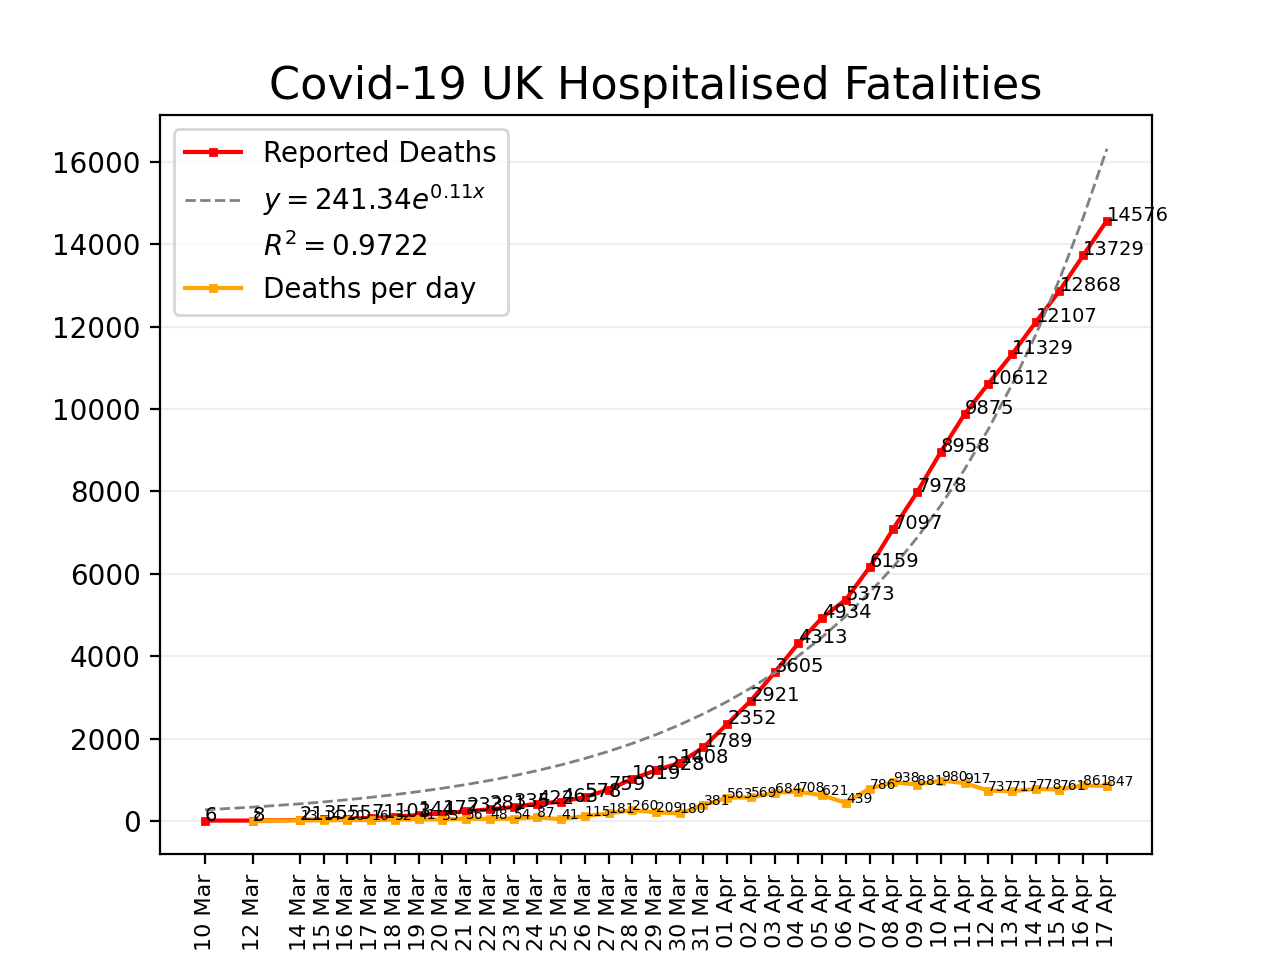
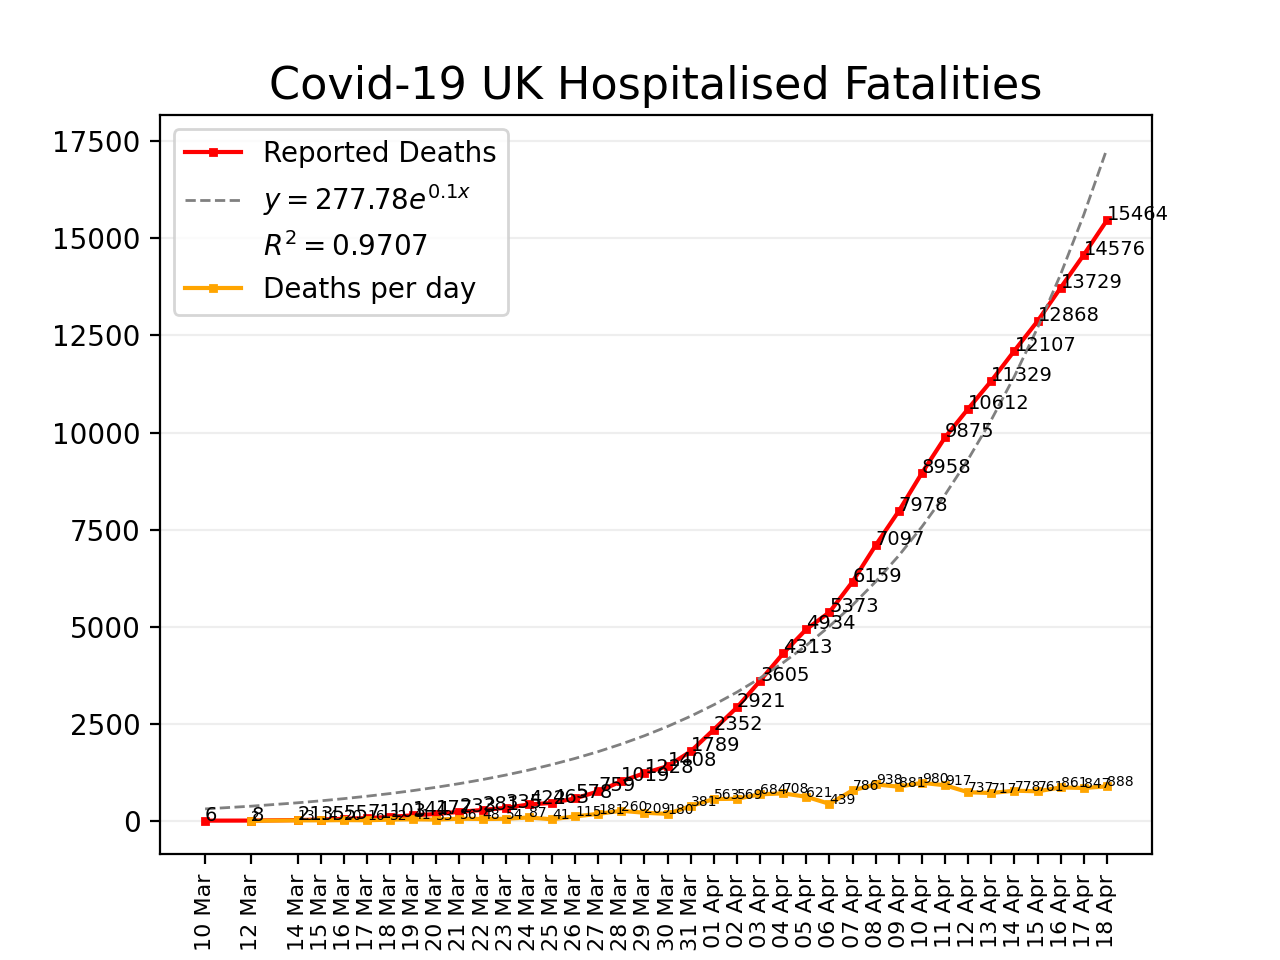
Adds data for 18 April

diff --git a/plot.py b/plot.py
@@ -8,7 +8,7 @@ y = np.array([
     6, 8, 21, 35, 55, 71, 103, 144, 177, 233,
     281, 335, 422, 463, 578, 759, 1019, 1228, 1408, 1789,
     2352, 2921, 3605, 4313, 4934, 5373, 6159, 7097, 7978, 8958,
-    9875, 10612, 11329, 12107, 12868, 13729, 14576
+    9875, 10612, 11329, 12107, 12868, 13729, 14576, 15464
 ])
 
 x = np.array([
@@ -16,7 +16,7 @@ x = np.array([
     1, 3, 5, 6, 7, 8, 9, 10, 11, 12,
     13, 14, 15, 16, 17, 18, 19, 20, 21, 22,
     23, 24, 25, 26, 27, 28, 29, 30, 31, 32,
-    33, 34, 35, 36, 37, 38, 39
+    33, 34, 35, 36, 37, 38, 39, 40
 ])
 
 labels = [
@@ -27,7 +27,7 @@ labels = [
     '30 Mar', '31 Mar', '01 Apr', '02 Apr', '03 Apr', '04 Apr',
     '05 Apr', '06 Apr', '07 Apr', '08 Apr', '09 Apr', '10 Apr',
     '11 Apr', '12 Apr', '13 Apr', '14 Apr', '15 Apr', '16 Apr',
-    '17 Apr'
+    '17 Apr', '18 Apr',
 ]
 
 x_diffs = x[1:]
